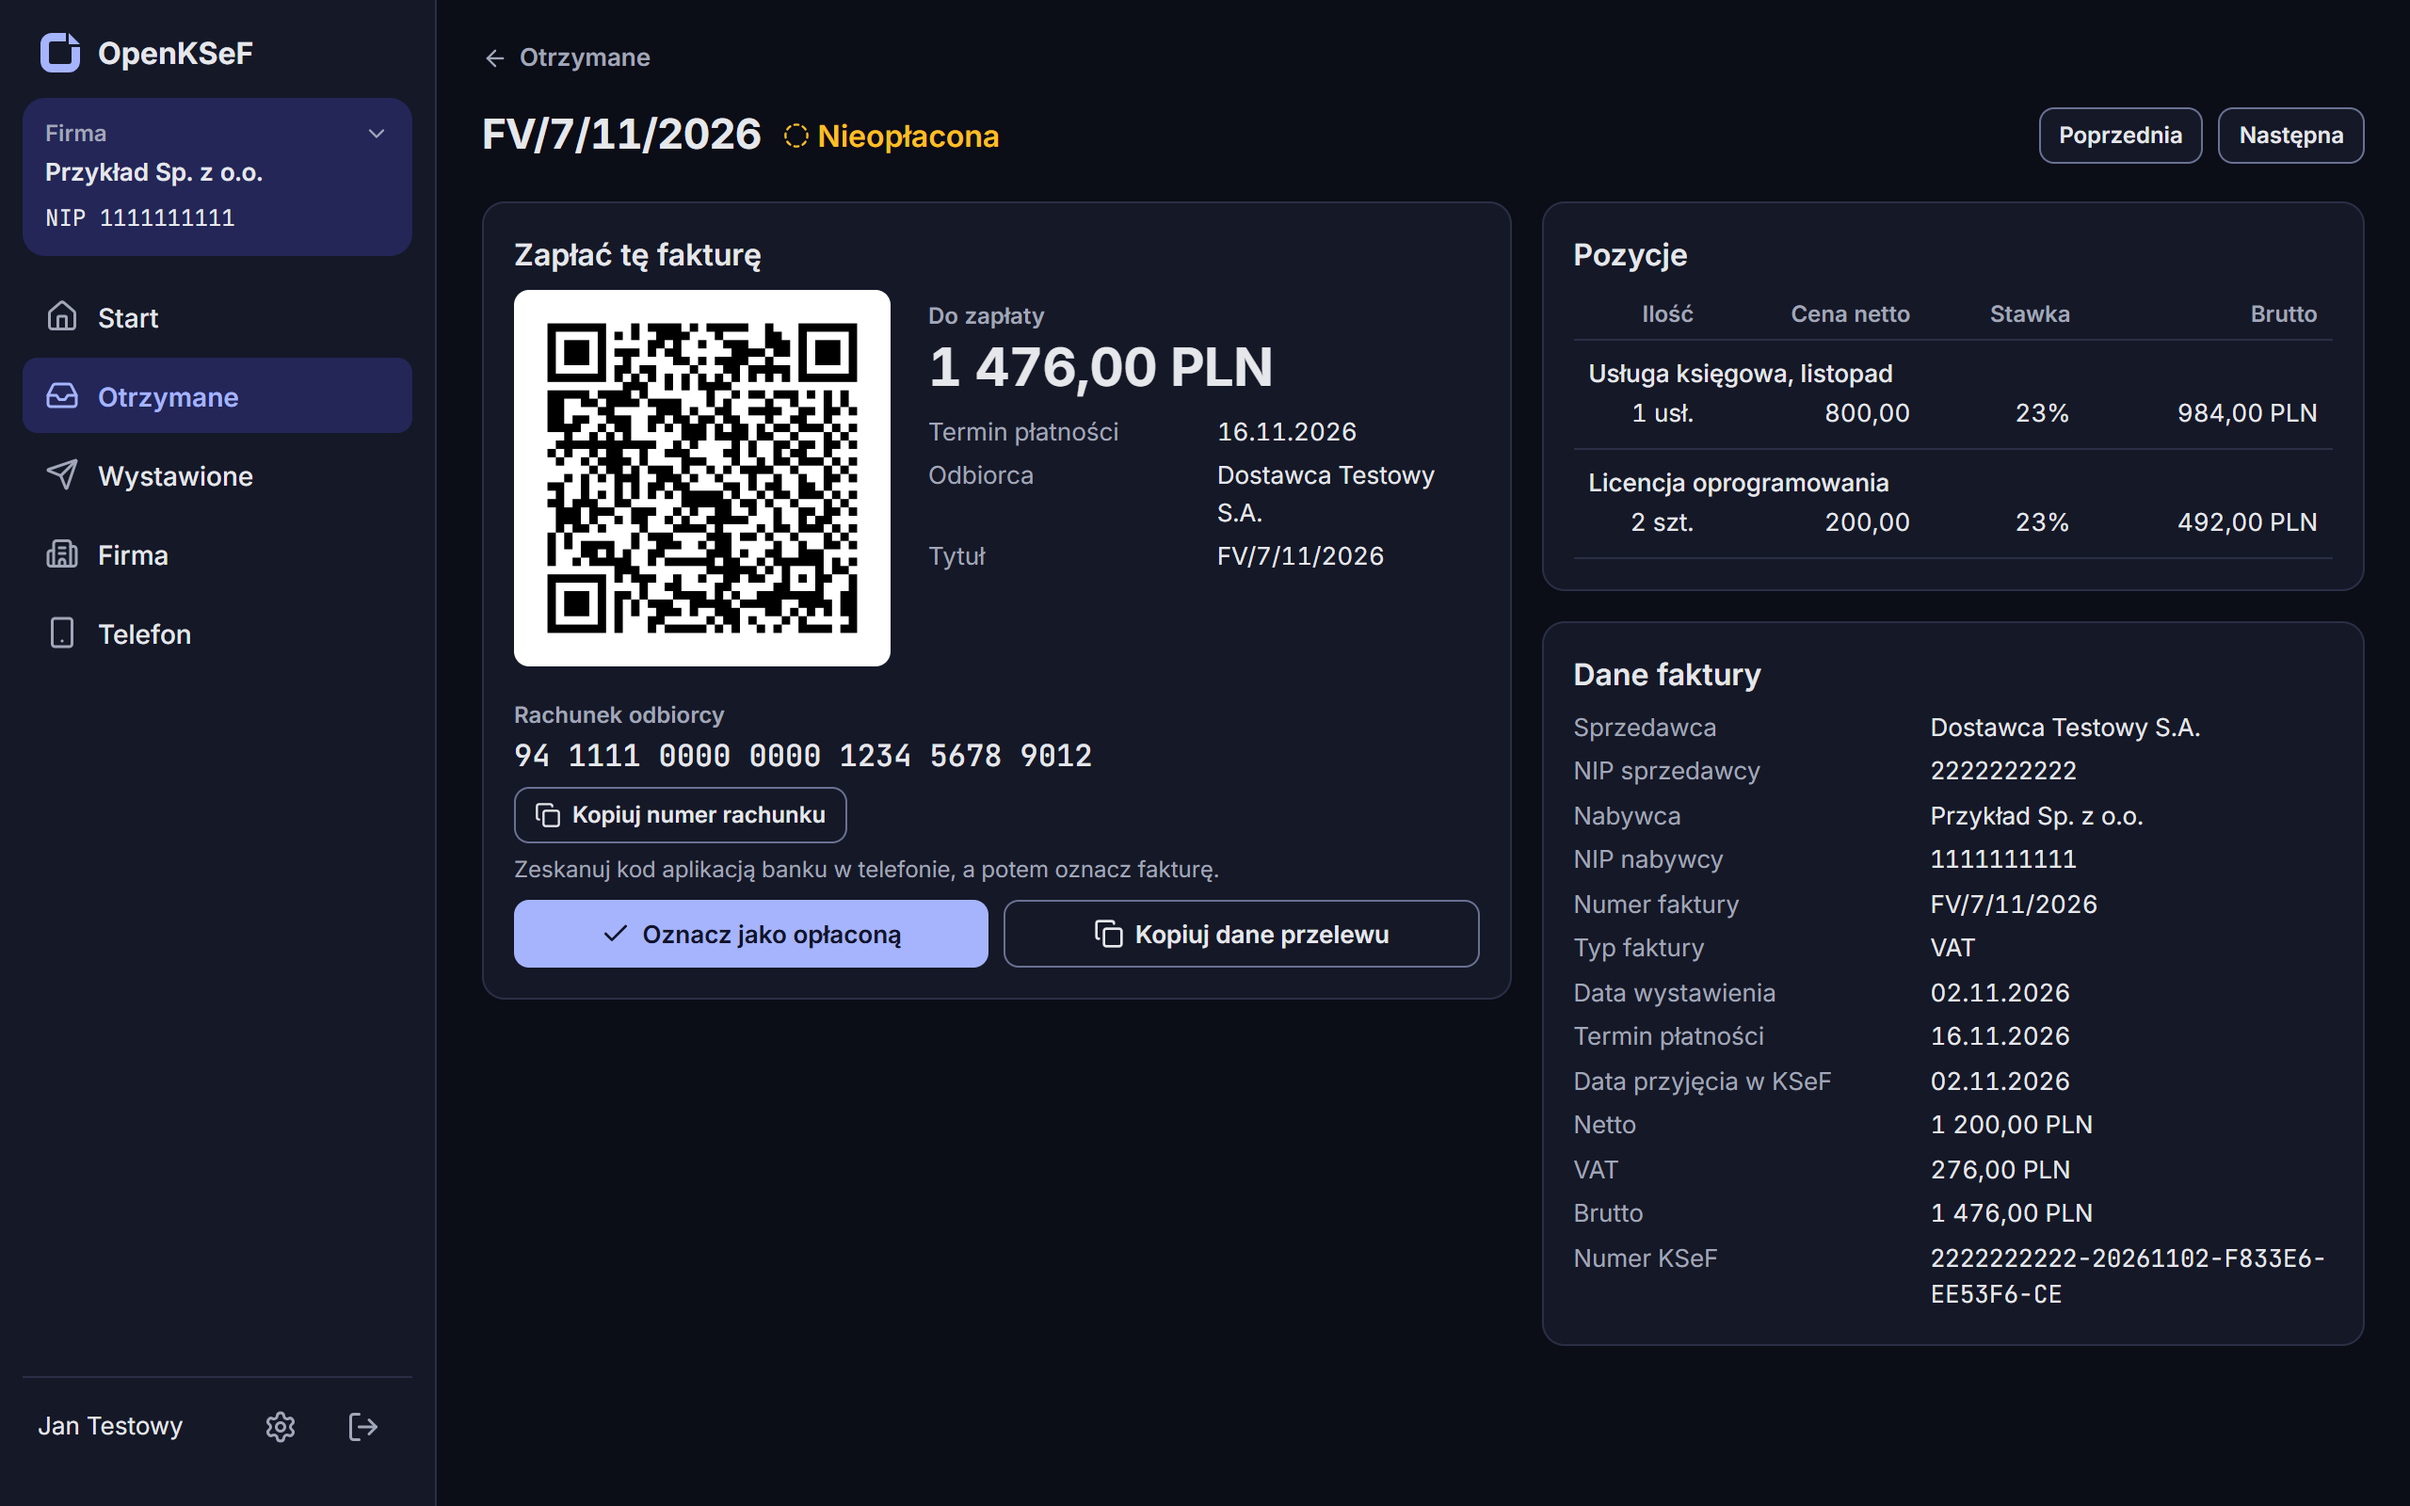
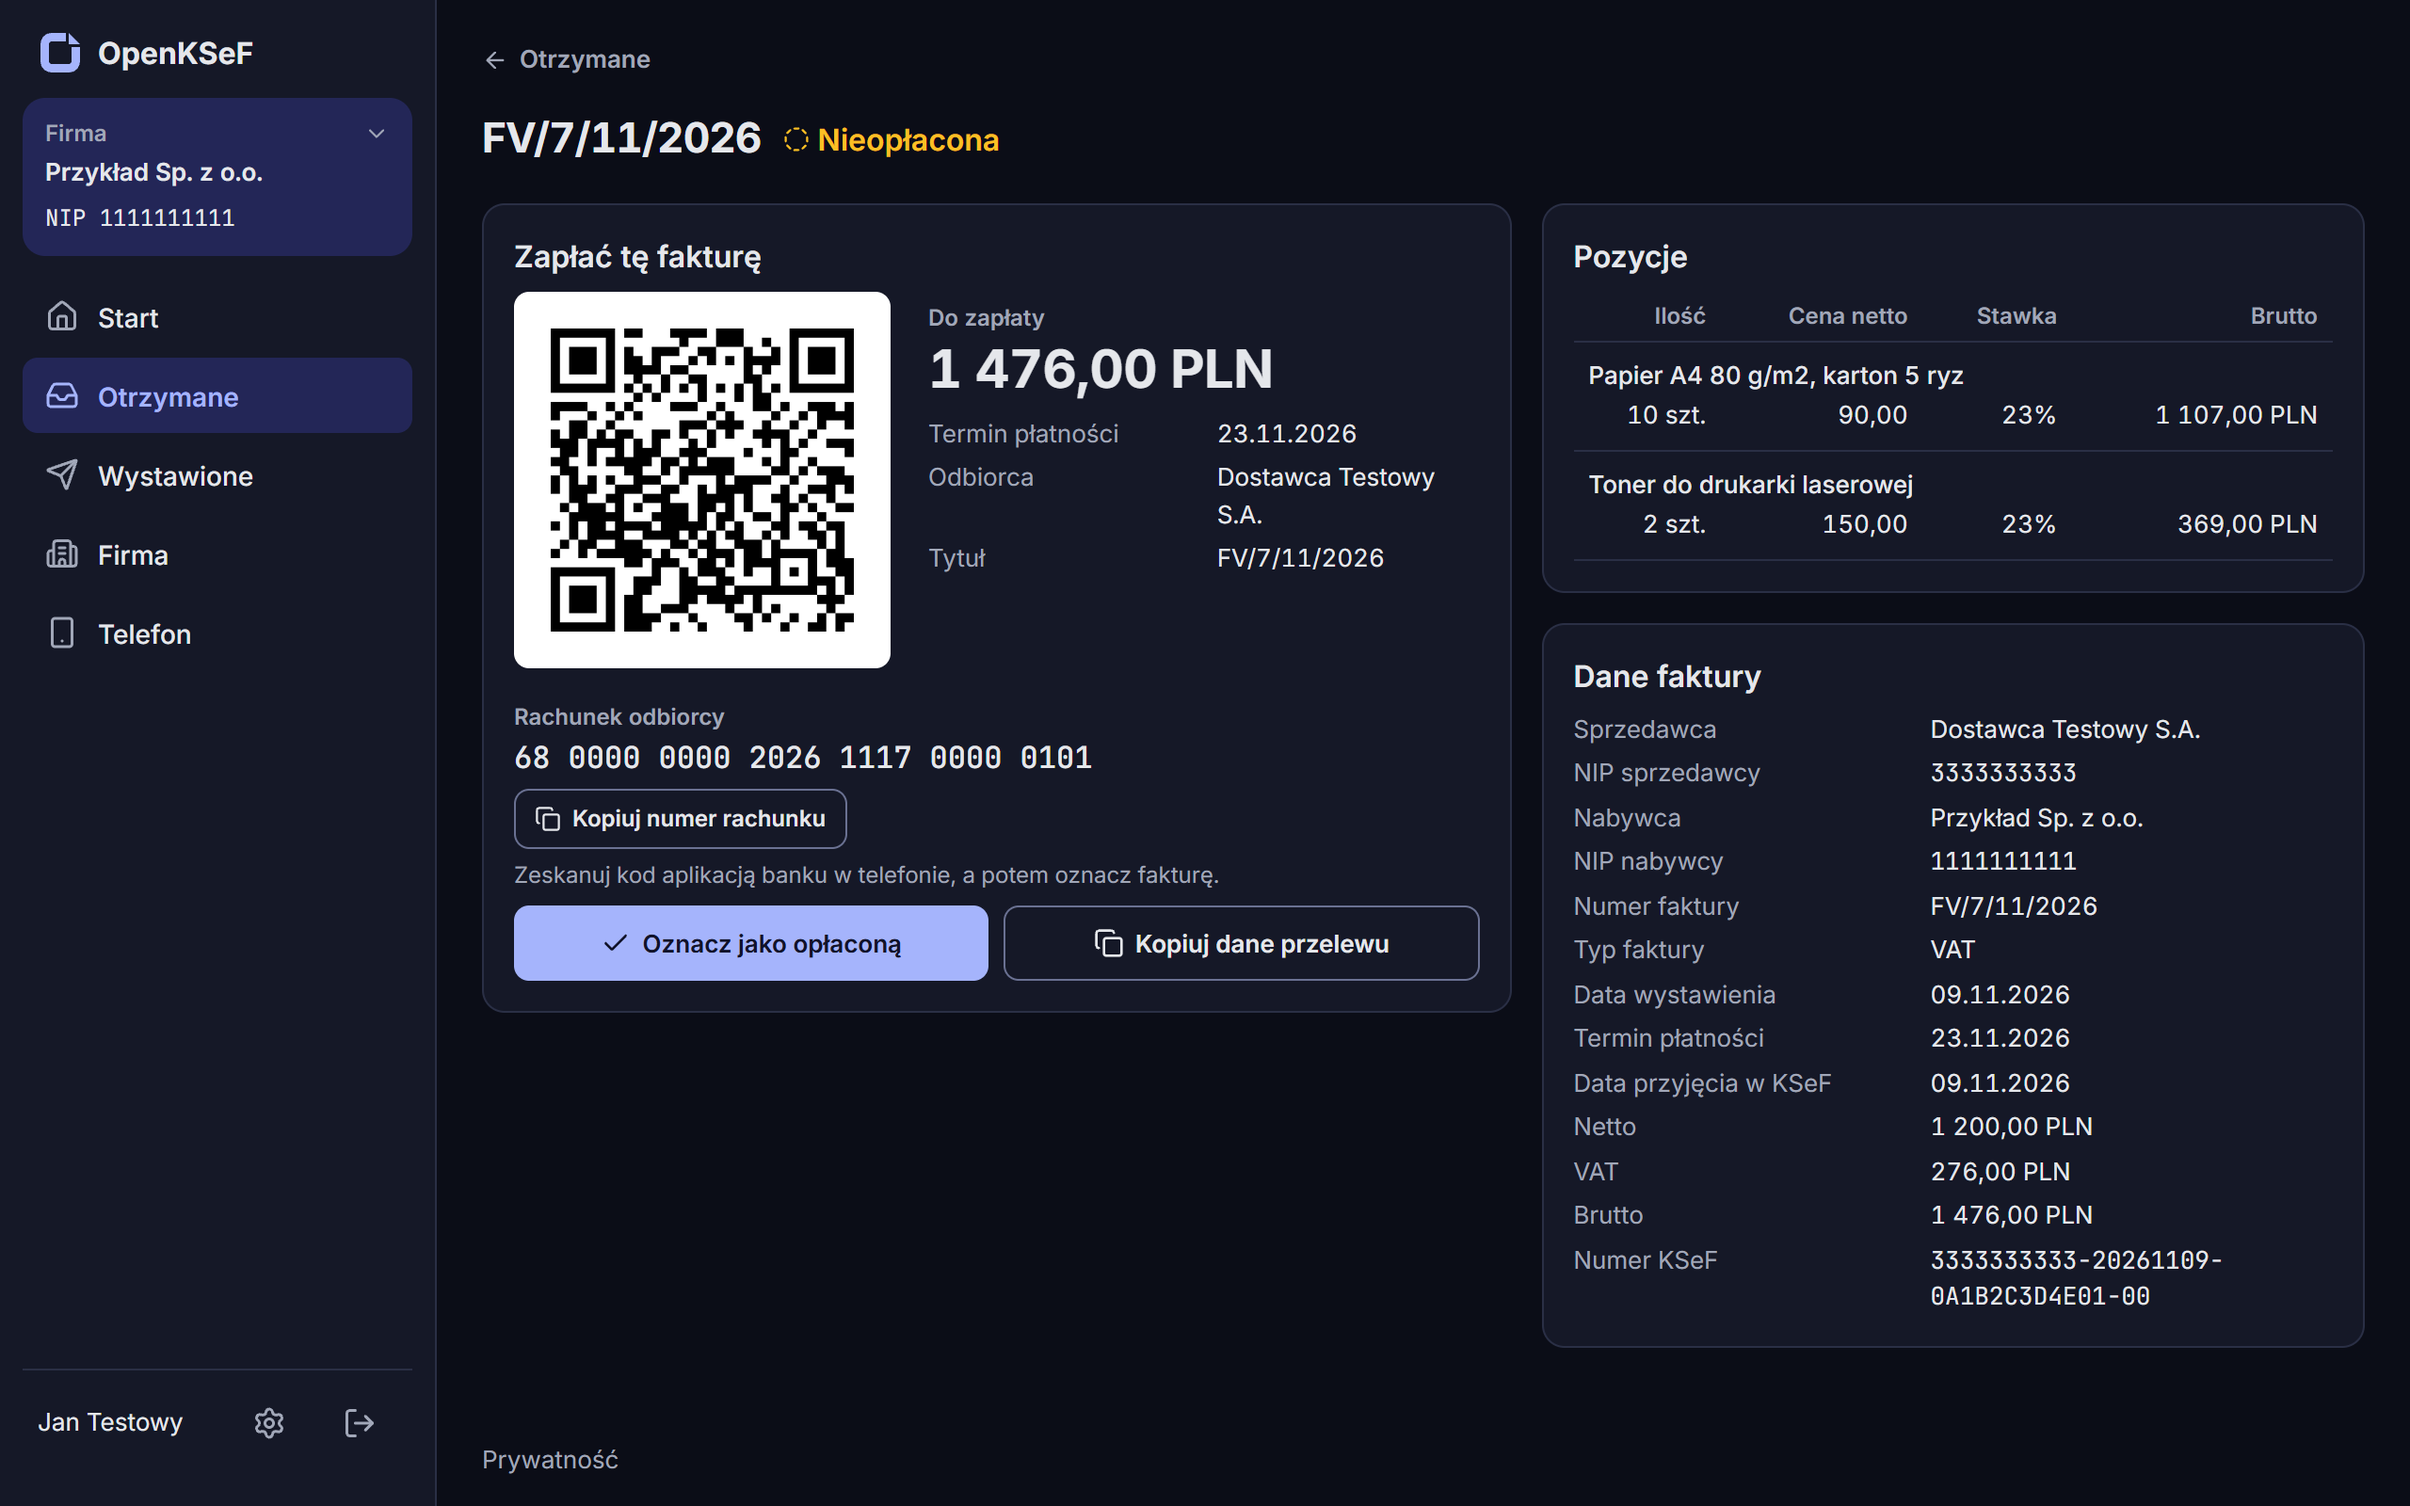
docs: Zapłać, Start and wizard step 4 screenshots (#64)
Retaken from backend v0.0.34 on a throwaway stack with fake data.
Mobile shots from a Debug build of tag v1.0.12 (release build
refuses http).

diff --git a/docs/aplikacja-mobilna.md b/docs/aplikacja-mobilna.md
@@ -32,6 +32,8 @@ Szczegóły otrzymanej faktury mają dwa przyciski:
 
 Oba przyciski pobierają dane z serwera OpenKSeF, więc wymagają połączenia z internetem. Kod QR i komunikaty są takie same jak w portalu.
 
+<img src="/img/screenshots/mobile/pay-details.png" alt="Szczegóły faktury: pozycje i przyciski Zapłać oraz Kopiuj dane przelewu" width="320" /> <img src="/img/screenshots/mobile/pay-qr.png" alt="Strona Kod QR przelewu: odbiorca i kwota nad kodem QR, przycisk Udostępnij / zapisz kod QR" width="320" />
+
 ### Płatność na tym samym telefonie
 
 Kod QR zeskanujesz aparatem w aplikacji bankowej na innym telefonie. Jeśli bank masz na tym samym telefonie:
@@ -56,6 +58,8 @@ Gdy kod QR byłby błędny, strona pokazuje komunikat z powodem, dane do przelew
 - faktura z mechanizmem podzielonej płatności (MPP): zapłać przelewem MPP w banku, komunikat podaje kwotę VAT, NIP sprzedawcy i numer faktury,
 - sprzedawca oznaczył fakturę jako zapłaconą (także w częściach) albo faktura wykazuje nadpłatę,
 - płatność na rachunek faktora, ale faktura nie podaje nazwy faktora.
+
+<img src="/img/screenshots/mobile/pay-no-qr.png" alt="Strona Kod QR przelewu bez kodu: komunikat Brak poprawnego numeru rachunku na fakturze, dane do przelewu i przycisk Kopiuj dane przelewu" width="320" />
 
 Gdy kod QR jest, komunikat nad nim może poprosić o wpisanie kwoty w banku (np. zaliczka, rozliczenie, faktura opłacona w części). Kod ma wtedy kwotę `000000` i kwotę wpisujesz sam. Po aktualizacji serwera starsze nieopłacone faktury mogą tak wyglądać z komunikatem `Nie odczytano jeszcze rozliczeń z tej faktury...`, dopóki serwer nie odczyta ponownie ich pliku XML. Komunikat może też przypomnieć: `Sprawdź, czy faktura nie wymaga podzielonej płatności (MPP).` przy kwocie brutto powyżej 15 000 zł, gdy OpenKSeF nie odczytał jeszcze oznaczenia MPP z faktury. Pełna lista sytuacji i komunikatów: [Otrzymane faktury, Zapłać tę fakturę](faktury#zapłać-tę-fakturę).
 

diff --git a/AGENTS.md b/AGENTS.md
@@ -72,10 +72,10 @@ docs/
 
 ### Screenshoty
 
-`static/img/screenshots/portal/` -- screeny portalu webowego do dokumentacji (strona logowania, weryfikacja dwuetapowa: włączenie, kody zapasowe, kod; Ustawienia > Bezpieczeństwo, reset weryfikacji, dashboard, admin-setup kroki 1-3, 5, 6, administrator danych: kreator, ustawienia, baner, strona Prywatność, lista faktur, szczegóły, pozycje, opłacona, QR; wystawianie: dane do faktur, szkic B2B i B2C, Wysyłanie, Przyjęta, PDF z KOD I, Odrzucona, okres numeru, 440, lista; parowanie: Zalogować telefon?, Telefon zalogowany; kod zapasowy), tylko jasny motyw
+`static/img/screenshots/portal/` -- screeny portalu webowego do dokumentacji (strona logowania, weryfikacja dwuetapowa: włączenie, kody zapasowe, kod; Ustawienia > Bezpieczeństwo, reset weryfikacji, dashboard, admin-setup kroki 1-6, administrator danych: kreator, ustawienia, baner, strona Prywatność, lista faktur, szczegóły, pozycje, opłacona, QR, bez QR; wystawianie: dane do faktur, szkic B2B i B2C, Wysyłanie, Przyjęta, PDF z KOD I, Odrzucona, okres numeru, 440, lista; parowanie: Zalogować telefon?, Telefon zalogowany; kod zapasowy), tylko jasny motyw
 `static/img/screenshots/home/` -- screeny na stronę główną (start, start na telefonie, lista, płatność), jasny i ciemny motyw
 
-`static/img/screenshots/mobile/` -- screeny aplikacji mobilnej (ekran logowania 1.0.9). Portal: `mobile-setup.png` (strona Telefon, karta Zaloguj telefon kodem)
+`static/img/screenshots/mobile/` -- screeny aplikacji mobilnej (ekran logowania 1.0.9; Zapłać: szczegóły, kod QR, bez kodu QR 1.0.12). Portal: `mobile-setup.png` (strona Telefon, karta Zaloguj telefon kodem)
 
 Screeny zawierają wyłącznie dane fikcyjne (np. NIP 1111111111, nazwy "Przykład"). Żadnych prawdziwych NIP-ów, numerów KSeF, nazw firm ani adresów serwerów.
 

diff --git a/docs/faktury.md b/docs/faktury.md
@@ -96,6 +96,8 @@ Karta **Zapłać tę fakturę** zawiera kwotę, termin płatności, odbiorcę, t
 
 ![Zapłać tę fakturę: dane do przelewu i kod QR](/img/screenshots/portal/invoice-qr.png)
 
+![Dane do przelewu bez kodu QR: rachunek odbiorcy brak i komunikat Brak poprawnego numeru rachunku na fakturze](/img/screenshots/portal/invoice-no-qr.png)
+
 Tytuł przelewu to sam numer faktury sprzedawcy, np. `FV/2026/10/0042`. Jeśli faktura nie ma numeru sprzedawcy, tytułem jest numer KSeF. W kodzie QR tytuł ma najwyżej 32 znaki: dłuższy numer jest skracany, a komunikat podaje pełny numer. Sprawdź wtedy tytuł w banku przed wysłaniem przelewu. Gdy nie ma numeru rachunku, pole **Rachunek odbiorcy** pokazuje `brak`.
 
 Dane do przelewu i kod QR przygotowuje serwer OpenKSeF, według tych samych zasad dla portalu i aplikacji mobilnej. Numer rachunku pochodzi z faktury. OpenKSeF nie sprawdza go na białej liście podatników VAT.

diff --git a/docs/admin-setup.md b/docs/admin-setup.md
@@ -80,6 +80,8 @@ Gmail wymaga **Hasła aplikacji** (nie zwykłego hasła). Wygeneruj je w ustawie
 
 ### Krok 4: Bezpieczeństwo
 
+![Krok 4 - bezpieczeństwo: klucz szyfrowania ustawiasz poza aplikacją](/img/screenshots/portal/admin-setup-step4.png)
+
 Wizard pobiera **secret klienta API** z klienta Keycloak `openksef-api` i zapisuje go w bazie.
 
 **Klucz szyfrowania AES-256** nie jest częścią wizarda. Ustaw `ENCRYPTION_KEY` dla API i Workera przed uruchomieniem stacku i przechowuj kopię poza bazą danych. Od wersji 0.0.15 bez prawidłowego klucza wizard zatrzymuje się na kroku 1, po zalogowaniu do Keycloak, i nie zmienia niczego. Szczegóły w sekcji [Klucz szyfrowania](#klucz-szyfrowania).
